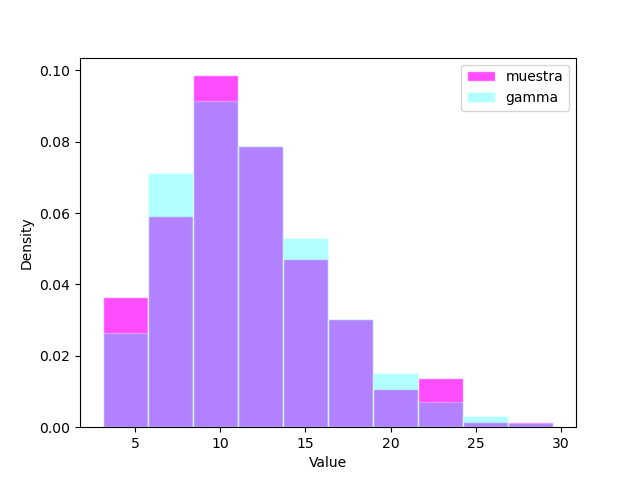
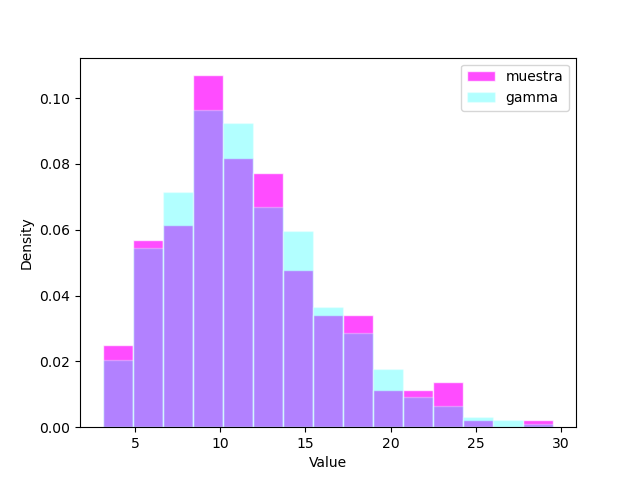
Histograms with coherent amount of bins

diff --git a/src/compare_frecuency.py b/src/compare_frecuency.py
@@ -7,7 +7,7 @@ from estimations import estimate_gamma, estimate_log_normal
 
 def plot_histogram_with_overlay(sample, density_func, distr):
     # Plotting the histogram of the input array
-    hist, bins, _ = plt.hist(sample, density=True, alpha=0.7,color='magenta', label='muestra', edgecolor='white')
+    hist, bins, _ = plt.hist(sample, density=True, bins='auto', alpha=0.7,color='magenta', label='muestra', edgecolor='white')
 
     # Generating x values for the density function
     x = np.linspace(min(sample), max(sample), 100)

diff --git a/src/estimations.py b/src/estimations.py
@@ -31,7 +31,7 @@ def estimate_gamma(data):
 
 def plot_histogram_with_distr(values):
     # Create the histogram
-    n, bins, patches = plt.hist(values, edgecolor='white')
+    n, bins, patches = plt.hist(values, bins='auto', edgecolor='white')
 
     # Calculate the bin widths
     bin_widths = bins[1:] - bins[:-1]

diff --git a/src/histogram.py b/src/histogram.py
@@ -5,7 +5,7 @@ from parse_sample import parse_sample
 
 def plot_histogram(values):
     # Create the histogram
-    plt.hist(values, edgecolor='white')
+    plt.hist(values, bins='auto',  edgecolor='white')
 
     # Set plot properties
     plt.xlabel('Valor')
